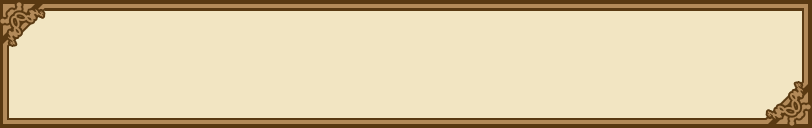
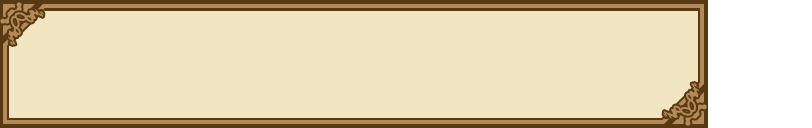
攻撃エフェクトあたったらカメラのほう向く、チュートリアルウィンドウ修正

Changed region(s): [[0.8005, 0.0, 1.0, 1.0]]

diff --git a/SourceCode/gamesystem/scene/TutorialScene.cpp b/SourceCode/gamesystem/scene/TutorialScene.cpp
@@ -266,7 +266,7 @@ void TutorialScene::PlayState() {
 
 		if (m_FeedEnd) {
 			if (GameStateManager::GetInstance()->GetEndResult()) {
-				window.m_Pos = { 640.0f,550.0f };
+				window.m_Pos = { 740.0f,550.0f };
 				Audio::GetInstance()->StopWave(AUDIO_MAIN);
 				Helper::CheckMin(m_Timer, 601, 1);
 				if (TutorialTask::GetInstance()->GetChoiceSkill()) {
@@ -277,15 +277,15 @@ void TutorialScene::PlayState() {
 				}
 			}
 			if (m_Timer == 1) {
-				m_TextPos = { 120.0f,20.f };
+				m_TextPos = { 20.0f,20.f };
 				text_->SetConversation(TextManager::TUTORIAL_SKILL, m_TextPos);
 			}
 			else if (m_Timer == 200) {
-				m_TextPos = { 120.0f,20.f };
+				m_TextPos = { 20.0f,20.f };
 				text_->SetConversation(TextManager::TUTORIAL_DELETE, m_TextPos);
 			}
 			else if (m_Timer == 400) {
-				m_TextPos = { 10.0f,20.f };
+				m_TextPos = { 20.0f,20.f };
 				text_->SetConversation(TextManager::TUTORIAL_CHOICE, m_TextPos);
 			}
 			else if (m_Timer == 550) {

diff --git a/SourceCode/gamesystem/character/Player.cpp b/SourceCode/gamesystem/character/Player.cpp
@@ -804,7 +804,7 @@ void Player::BoundMove() {
 void Player::RegeneUpdate() {
 	if (StagePanel::GetInstance()->GetHeal(m_NowWidth, m_NowHeight)) {
 		if (Helper::CheckMin(m_HealTimer, 50, 1)) {
-			RegeneHeal(20.0f);
+			RegeneHeal(10.0f);
 			m_HealTimer = {};
 		}
 	} else {

diff --git a/SourceCode/gamesystem/scene/GameStateManager.h b/SourceCode/gamesystem/scene/GameStateManager.h
@@ -308,7 +308,7 @@ private:
 	int m_ID = {};
 	int m_Delay = {};
 	string m_Name;
-	vector <int> m_StartNumber = { 2,3,5,22,23,29 };
+	vector <int> m_StartNumber = { 2,3,5 };
 	vector<int> m_DeckNumber = m_StartNumber;
 
 	vector<int> m_NotDeckNumber = {};
